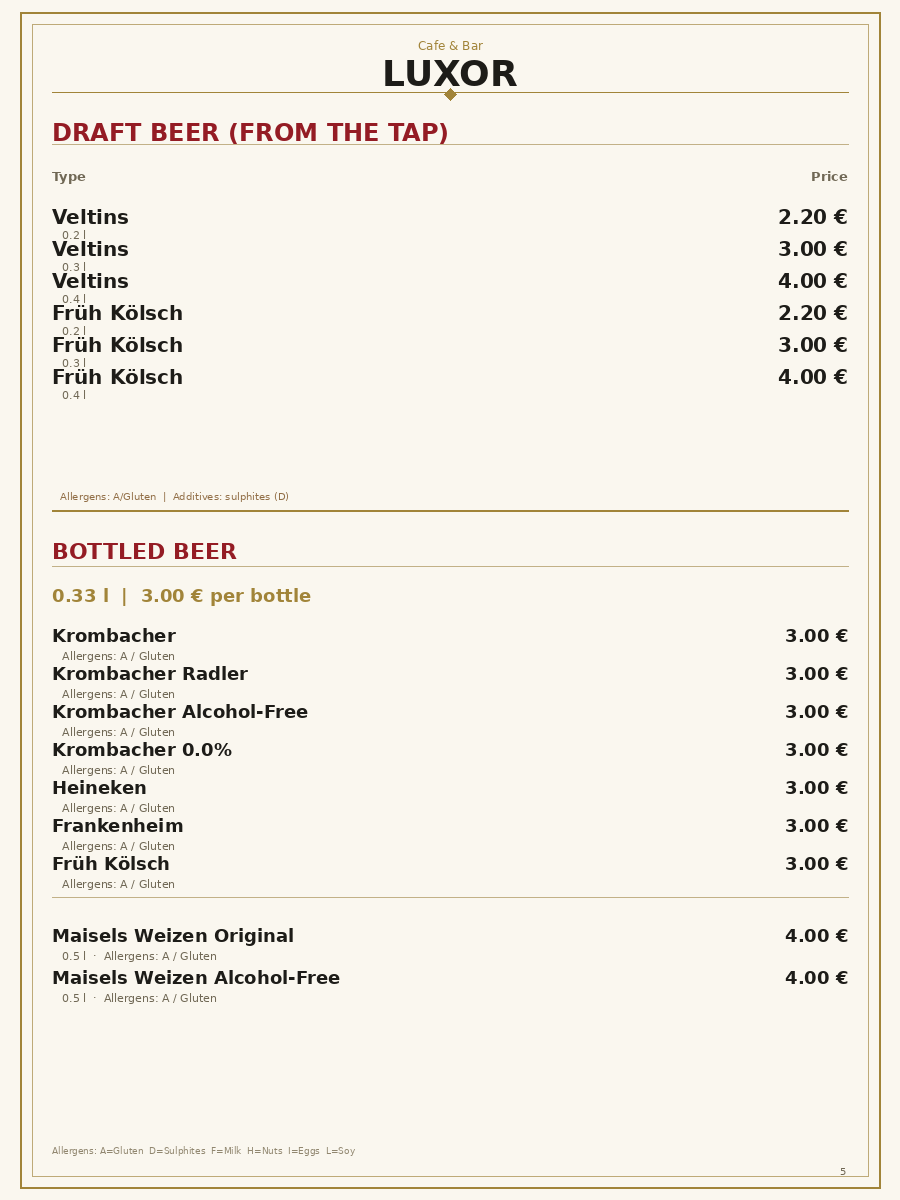
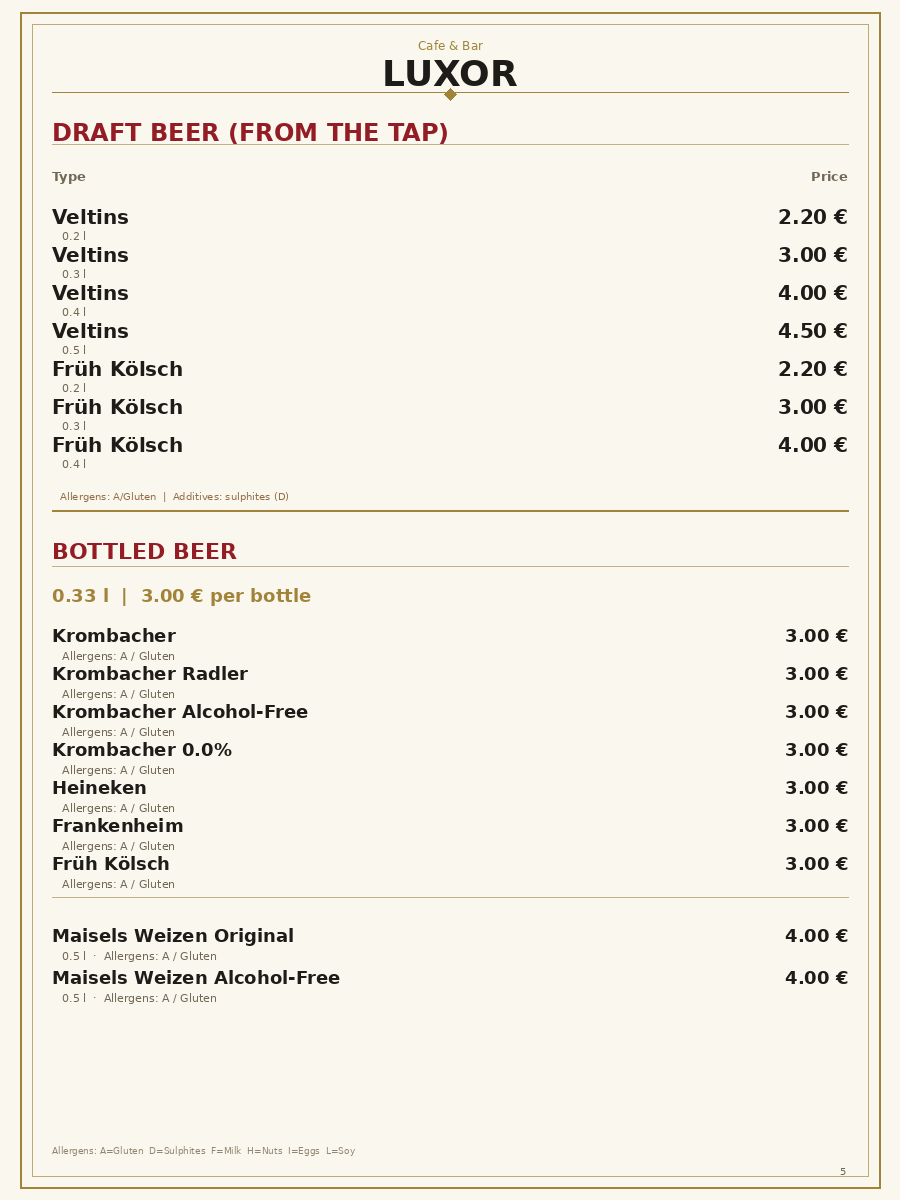
Checkpoint: Added Veltins 0,5 l at 4,50 € to the German beer menu and Veltins 0.5 l at 4.50 € to the English beer menu. Adjusted English draft-beer row spacing so all size labels remain readable. Verified both rendered pages; 37 tests, TypeScript validation, and production build pass.

Changed region(s): [[0.0622, 0.185, 0.2178, 0.4008], [0.8711, 0.185, 0.9644, 0.4008]]

diff --git a/client/src/pages/Menu.prices.test.ts b/client/src/pages/Menu.prices.test.ts
@@ -30,4 +30,9 @@ describe("bilingual beverage price update", () => {
     expect(englishGenerator).not.toContain("('Königshof Pils'");
     expect(aboutSource).not.toContain("Königshof");
   });
+
+  it("includes Veltins 0.5 l at 4.50 euros in both languages", () => {
+    expect(readFileSync("/tmp/rebuild_german_drinks_clean.py", "utf8")).toContain("('Veltins', '0,5 l', '4,50 €')");
+    expect(englishGenerator).toContain("('Veltins','0.5 l','4.50 €')");
+  });
 });
